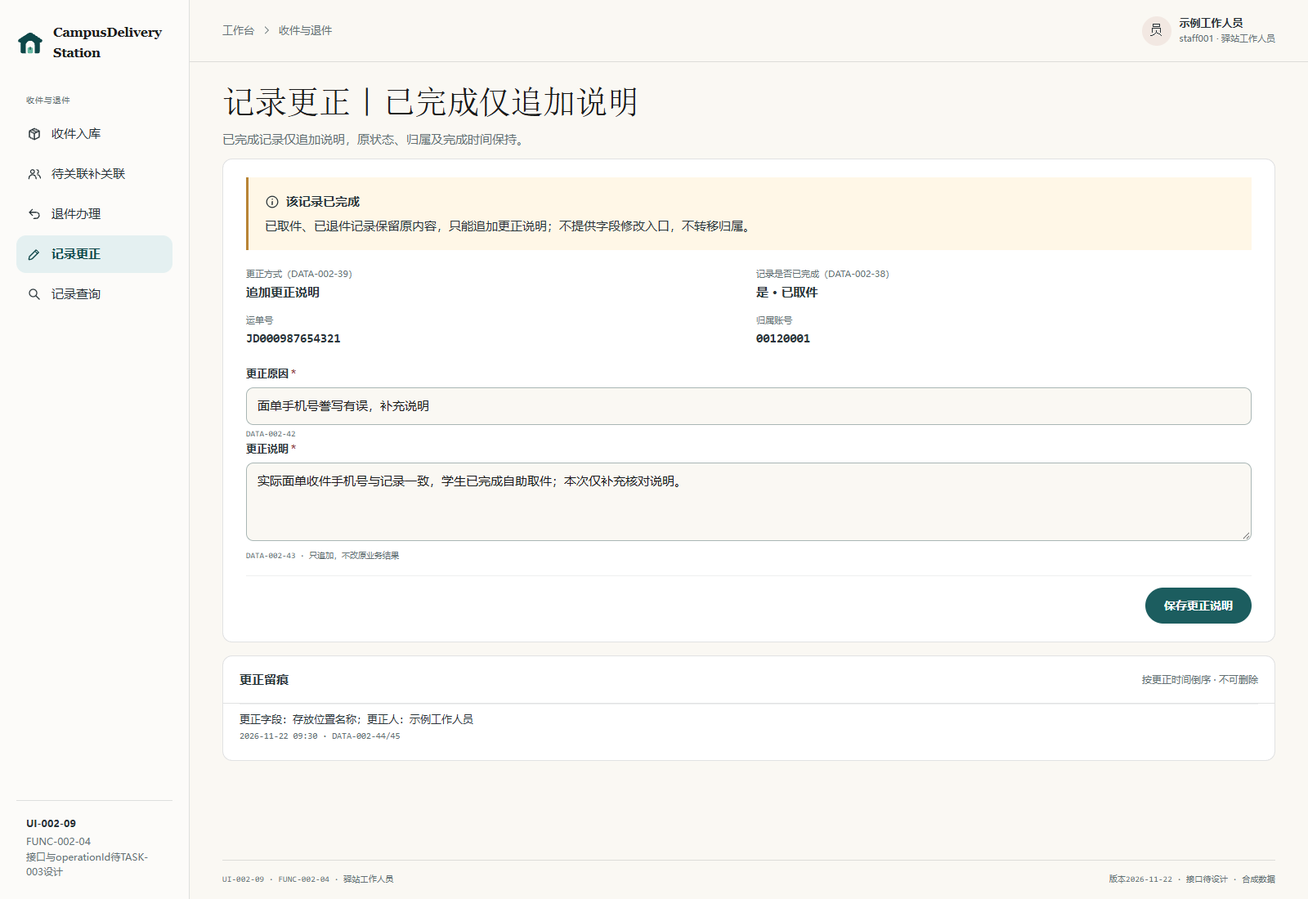
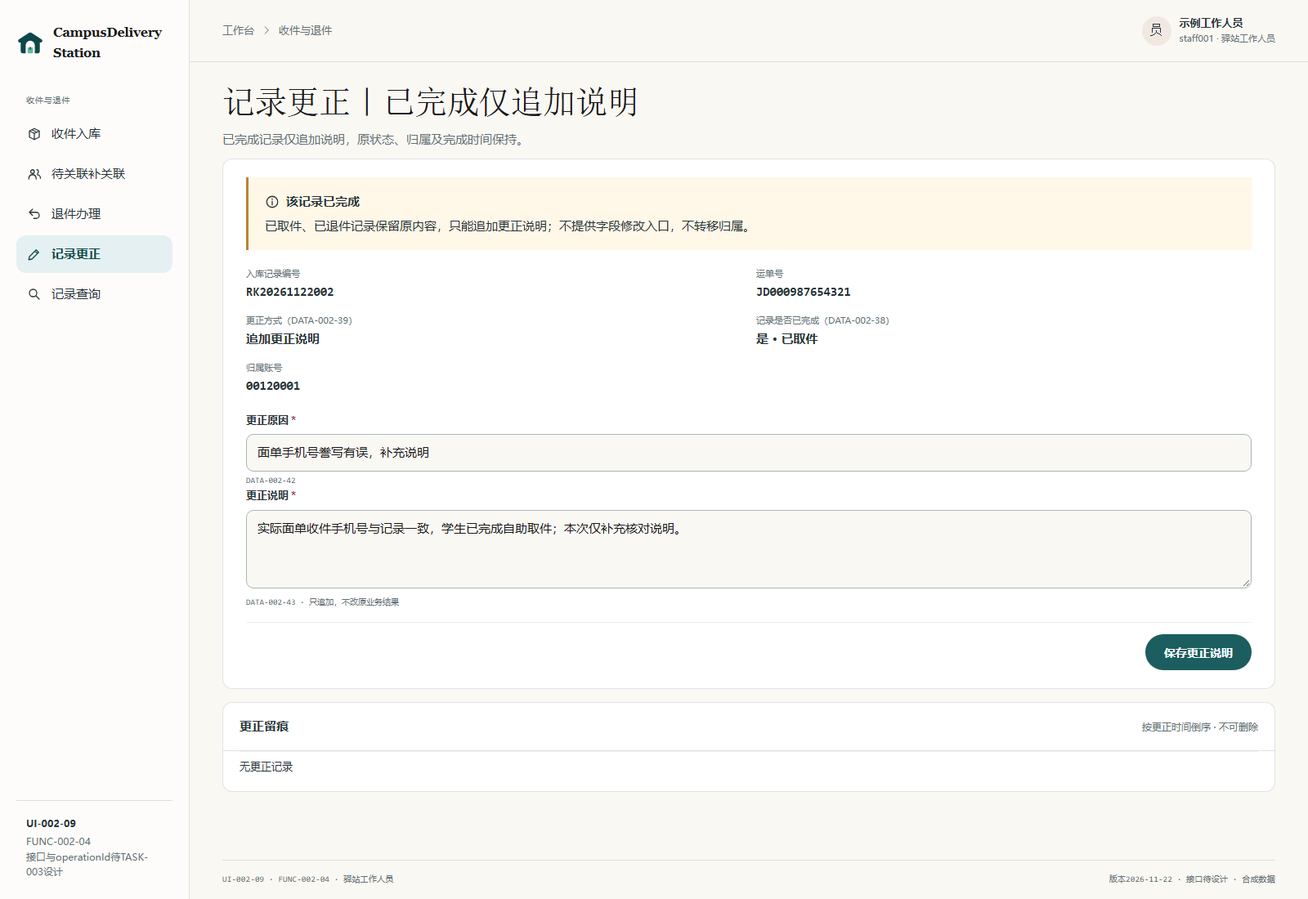
doc(prototype):修复REQ-002查询列表与详情错绑

diff --git a/docs/requirements/prototypes/任奕阳_REQ-002/prototype.js b/docs/requirements/prototypes/任奕阳_REQ-002/prototype.js
@@ -26,6 +26,22 @@ const companies = ["顺丰速运", "京东快递", "韵达快递", "中通快递
 const locations = ["A-1", "A-2", "A-3", "B-1", "B-2", "B-3", "C-1", "C-2", "C-3"];
 const student = { account: "00120001", name: "示例学生", phone: "13800000001" };
 const otherStudent = { account: "00120002", name: "示例学生乙", phone: "13900000009" };
+const records = [
+  {
+    id: "RK20261122001", company: "顺丰速运", tracking: "SF000123456789", receiver: student.name,
+    phone: student.phone, location: "A-3", status: "待取件", account: null, arrivedAt: "2026-11-22 09:05",
+    correction: { field: "存放位置名称", operator: "示例工作人员", at: "2026-11-22 09:30" }
+  },
+  {
+    id: "RK20261121006", company: "京东快递", tracking: "JD000444555666", receiver: student.name,
+    phone: student.phone, location: "B-1", status: "退件中", account: student.account, arrivedAt: "2026-11-21 16:02",
+    returnInfo: { id: "TJ20261122002", source: "学生拒收", reason: "学生拒收", destination: "退回原快递公司", startedAt: "2026-11-22 09:40" }
+  },
+  {
+    id: "RK20261122002", company: "京东快递", tracking: "JD000987654321", receiver: student.name,
+    phone: student.phone, location: "A-1", status: "已取件", account: student.account, arrivedAt: "2026-11-21 16:40"
+  }
+];
 let demoState = "normal";
 let toastTimer;
 
@@ -41,8 +57,12 @@ function brand() {
 }
 
 function currentRoute() {
-  const route = window.location.hash.replace(/^#/, "") || "intake";
+  const route = window.location.hash.slice(1).split("/")[0];
   return Object.hasOwn(pages, route) ? route : "intake";
+}
+
+function isRecordClosed(record) {
+  return record.status === "已取件" || record.status === "已退件";
 }
 
 function metaFooter(page) {
@@ -72,7 +92,7 @@ function shell(route, content) {
       ${navButton("linking", route.startsWith("linking"), "待关联补关联", "users")}
       ${navButton("returns", route.startsWith("return"), "退件办理", "return")}
       ${navButton("correction", route.startsWith("correction"), "记录更正", "edit")}
-      ${navButton("records", route === "records", "记录查询", "search")}
+      ${navButton("records", route === "records" || route === "record-detail", "记录查询", "search")}
     </div>`;
   const displayName = isAdmin ? "示例管理员" : "示例工作人员";
   const account = isAdmin ? "admin001" : "staff001";
@@ -243,14 +263,26 @@ function returnList() {
   </table></div>${pagination(1)}`;
 }
 
-function inReturnList() {
+function inReturnList(record) {
+  const returnInfo = record?.returnInfo ?? {
+    id: "TJ20261122001", source: "人工异常", destination: "退回原快递公司", startedAt: "2026-11-22 09:50"
+  };
+  const recordAttribute = record ? ` data-record-id="${record.id}"` : "";
   return `<div class="table-scroll"><table class="data-table">
     <thead><tr><th>退件记录编号</th><th>来源</th><th>运单号</th><th>退回去向</th><th>开始退件时间</th><th>状态</th><th>操作</th></tr></thead>
-    <tbody><tr><td class="mono">TJ20261122001</td><td>人工异常</td><td class="mono">ZT000111222333</td><td>退回原快递公司</td><td class="mono">2026-11-22 09:50</td><td><span class="status-badge warning">退件中</span></td><td><div class="row-actions"><button class="button-text" type="button" data-action="finish-return">完成登记</button></div></td></tr></tbody>
+    <tbody><tr><td class="mono">${returnInfo.id}</td><td>${returnInfo.source}</td><td class="mono">${record?.tracking ?? "ZT000111222333"}</td>
+      <td>${returnInfo.destination}</td><td class="mono">${returnInfo.startedAt}</td><td><span class="status-badge warning">退件中</span></td>
+      <td><div class="row-actions"><button class="button-text" type="button" data-action="finish-return"${recordAttribute}>完成登记</button></div></td></tr></tbody>
   </table></div>`;
 }
 
-function returnsPage() {
+function returnsPage(record, requestedRecordId) {
+  if (requestedRecordId) {
+    const canContinue = record?.status === "退件中" && record.returnInfo;
+    const back = `<button class="button button-secondary" type="button" data-route="${record ? `record-detail/${record.id}` : "records"}">${record ? "返回记录详情" : "返回记录查询"}</button>`;
+    return pageHeading(pages.returns, canContinue ? `继续办理入库记录${record.id}的退件。` : "该记录当前没有可继续办理的退件。", back) +
+      (canContinue ? `<section class="list-card"><div class="list-toolbar"><strong>退件中</strong></div>${inReturnList(record)}</section>` : "");
+  }
   return pageHeading(pages.returns, "来源由入口确定：学生拒收须拒收待退件且当前申请有效；人工异常仅适用于待取件包裹，可无拒收申请。") +
     `<div class="tabs" role="tablist" aria-label="退件发起入口"><button class="tab" role="tab" aria-selected="true" type="button">学生拒收</button><button class="tab" role="tab" aria-selected="false" type="button" data-route="return-manual">人工发起</button></div>
     <section class="list-card"><div class="list-toolbar"><strong>待退件｜学生拒收</strong><span class="list-count">拒收申请由REQ-003维护，本页只读</span></div>${demoState === "normal" ? returnList() : listStateBlock("没有符合条件的待退件包裹。")}</section>
@@ -293,55 +325,91 @@ function returnManualPage() {
 }
 
 /* FUNC-002-04 更正 */
-function correctionPage(closed) {
+function recordCorrectionHistory(record) {
+  const correction = record.correction;
+  return correction ? `<li>更正字段：${correction.field}；更正人：${correction.operator}<small class="mono">${correction.at} · DATA-002-44/45</small></li>` : "<li>无更正记录</li>";
+}
+
+function correctionPage(closed, selectedRecord, requestedRecordId) {
   const page = pages[closed ? "correction-closed" : "correction"];
-  const form = closed ? `<form class="form-card" id="correction-form" novalidate>
+  if (requestedRecordId && !selectedRecord) return pageHeading(page, "未找到该记录。", `<button class="button button-secondary" type="button" data-route="records">返回记录查询</button>`);
+  const record = selectedRecord ?? records[closed ? 2 : 0];
+  const formAttributes = selectedRecord ? ` data-record-id="${record.id}"` : "";
+  const back = selectedRecord ? `<button class="button button-secondary" type="button" data-route="record-detail/${record.id}">返回记录详情</button>` : "";
+  const form = closed ? `<form class="form-card" id="correction-form"${formAttributes} novalidate>
       <div class="info-card warning"><div class="info-card__title">${icon("info")}该记录已完成</div><p>已取件、已退件记录保留原内容，只能追加更正说明；不提供字段修改入口，不转移归属。</p></div>
-      <dl class="detail-grid" style="margin-top:20px"><div><dt>更正方式（DATA-002-39）</dt><dd>追加更正说明</dd></div><div><dt>记录是否已完成（DATA-002-38）</dt><dd>是 · 已取件</dd></div><div><dt>运单号</dt><dd class="mono">JD000987654321</dd></div><div><dt>归属账号</dt><dd class="mono">00120001</dd></div></dl>
-      ${field("更正原因", "DATA-002-42", `<input name="reason" value="面单手机号誊写有误，补充说明" autocomplete="off">`)}
-      <div class="field field-full"><label for="correction-note">更正说明<span class="required" aria-hidden="true">*</span></label><textarea id="correction-note" name="note">实际面单收件手机号与记录一致，学生已完成自助取件；本次仅补充核对说明。</textarea><span class="data-ref">DATA-002-43 · 只追加，不改原业务结果</span></div>
+      <dl class="detail-grid" style="margin-top:20px"><div><dt>入库记录编号</dt><dd class="mono">${record.id}</dd></div><div><dt>运单号</dt><dd class="mono">${record.tracking}</dd></div><div><dt>更正方式（DATA-002-39）</dt><dd>追加更正说明</dd></div><div><dt>记录是否已完成（DATA-002-38）</dt><dd>是 · ${record.status}</dd></div><div><dt>归属账号</dt><dd class="mono">${record.account}</dd></div></dl>
+      ${field("更正原因", "DATA-002-42", `<input name="reason" value="${selectedRecord ? "" : "面单手机号誊写有误，补充说明"}" autocomplete="off">`)}
+      <div class="field field-full"><label for="correction-note">更正说明<span class="required" aria-hidden="true">*</span></label><textarea id="correction-note" name="note">${selectedRecord ? "" : "实际面单收件手机号与记录一致，学生已完成自助取件；本次仅补充核对说明。"}</textarea><span class="data-ref">DATA-002-43 · 只追加，不改原业务结果</span></div>
       <div class="form-footer"><button class="button button-primary" type="submit">保存更正说明</button></div>
-    </form>` : `<form class="form-card" id="correction-form" novalidate>
+    </form>` : `<form class="form-card" id="correction-form"${formAttributes} novalidate>
       <div class="form-grid">
-        ${field("更正对象类型", "DATA-002-37", `<select name="objectType"><option>入库记录</option><option>退件记录</option></select>`)}
-        ${field("更正对象编号", "DATA-002-07 · 定位待更正记录", `<input name="objectId" value="RK20261122001" autocomplete="off">`)}
+        ${field("更正对象类型", "DATA-002-37", `<select name="objectType" ${selectedRecord ? "disabled" : ""}><option>入库记录</option><option>退件记录</option></select>`)}
+        ${field("更正对象编号", "DATA-002-07 · 定位待更正记录", `<input name="objectId" value="${record.id}" autocomplete="off" ${selectedRecord ? "readonly" : ""}>`)}
         ${field("更正字段", "DATA-002-40 · 不允许直接修改包裹状态", `<select name="fieldName" id="correction-field"><option value="phone">收件手机号</option><option value="tracking">运单号</option><option value="location">存放位置名称</option></select>`)}
-        ${field("更正后内容", "按更正字段引用DATA-003-03等原定义", `<input name="newValue" id="correction-value" value="13900000009" autocomplete="off">`)}
-        ${field("更正原因", "DATA-002-42", `<input name="reason" value="入库时收件手机号录错" autocomplete="off">`, true)}
+        ${field("更正后内容", "按更正字段引用DATA-003-03等原定义", `<input name="newValue" id="correction-value" value="${selectedRecord ? "" : otherStudent.phone}" autocomplete="off">`)}
+        ${field("更正原因", "DATA-002-42", `<input name="reason" value="${selectedRecord ? "" : "入库时收件手机号录错"}" autocomplete="off">`, true)}
       </div>
       <div class="snapshot-compare">
-        <section class="snapshot-box"><h4>更正前内容快照（DATA-002-41）</h4><dl><dt>归属账号</dt><dd class="mono">待关联（允许缺失）</dd><dt>运单号</dt><dd class="mono">SF000123456789</dd><dt>收件手机号</dt><dd class="mono">13800000001</dd><dt>存放位置</dt><dd>A-3</dd></dl></section>
-        <section class="snapshot-box new"><h4>按新号码重新匹配</h4><dl><dt>匹配结果</dt><dd class="mono">00120002 · 示例学生乙</dd><dt>归属变化</dt><dd>待关联 → 00120002</dd><dt>学生可见性</dt><dd>入库后对示例学生乙可见</dd></dl></section>
+        <section class="snapshot-box"><h4>更正前内容快照（DATA-002-41）</h4><dl><dt>归属账号</dt><dd class="mono">${record.account ?? "待关联（允许缺失）"}</dd><dt>运单号</dt><dd class="mono">${record.tracking}</dd><dt>收件手机号</dt><dd class="mono">${record.phone}</dd><dt>存放位置</dt><dd>${record.location}</dd></dl></section>
+        ${selectedRecord ? "" : `<section class="snapshot-box new"><h4>按新号码重新匹配</h4><dl><dt>匹配结果</dt><dd class="mono">${otherStudent.account} · ${otherStudent.name}</dd><dt>归属变化</dt><dd>待关联 → ${otherStudent.account}</dd><dt>学生可见性</dt><dd>入库后对${otherStudent.name}可见</dd></dl></section>`}
       </div>
       <p class="inline-note">快照字段为P002-09建议最小范围，具体结构待数据库设计确认；更正运单号时须重新查重，命中其他未办结记录则阻止保存。</p>
       <div class="form-footer"><button class="button button-primary" type="submit">保存更正</button></div>
     </form>`;
-  return `<div class="correction-page">` + pageHeading(page, closed ? "已完成记录仅追加说明，原状态、归属及完成时间保持。" : "先定位记录并核对是否已完成，再选择更正字段；保存时留痕操作人与时间。") + form +
-    `<div style="height:16px"></div><section class="list-card"><div class="list-toolbar"><strong>更正留痕</strong><span class="list-count">按更正时间倒序 · 不可删除</span></div><ul class="history-list" style="padding:0 20px 12px"><li>更正字段：存放位置名称；更正人：示例工作人员<small class="mono">2026-11-22 09:30 · DATA-002-44/45</small></li></ul></section></div>`;
+  return `<div class="correction-page">` + pageHeading(page, closed ? "已完成记录仅追加说明，原状态、归属及完成时间保持。" : "先定位记录并核对是否已完成，再选择更正字段；保存时留痕操作人与时间。", back) + form +
+    `<div style="height:16px"></div><section class="list-card"><div class="list-toolbar"><strong>更正留痕</strong><span class="list-count">按更正时间倒序 · 不可删除</span></div><ul class="history-list" style="padding:0 20px 12px">${recordCorrectionHistory(record)}</ul></section></div>`;
 }
 
 /* FUNC-002-05 查询 */
 function recordRows() {
-  return `<tr><td class="mono">RK20261122001</td><td>顺丰速运</td><td class="mono">SF000123456789</td><td>示例学生</td><td class="mono">13800000001</td><td>A-3</td><td><span class="status-badge">待取件</span></td><td>待关联</td><td class="mono">2026-11-22 09:05</td><td><div class="row-actions"><button class="button-text" type="button" data-action="record-detail">详情</button></div></td></tr>
-  <tr><td class="mono">RK20261121006</td><td>京东快递</td><td class="mono">JD000444555666</td><td>示例学生</td><td class="mono">13800000001</td><td>B-1</td><td><span class="status-badge warning">退件中</span></td><td>已关联</td><td class="mono">2026-11-21 16:02</td><td><div class="row-actions"><button class="button-text" type="button" data-action="record-detail">详情</button></div></td></tr>
-  <tr><td class="mono">RK20261122002</td><td>京东快递</td><td class="mono">JD000987654321</td><td>示例学生</td><td class="mono">13800000001</td><td>A-1</td><td><span class="status-badge neutral">已取件</span></td><td>已关联</td><td class="mono">2026-11-21 16:40</td><td><div class="row-actions"><button class="button-text" type="button" data-action="record-detail">详情</button></div></td></tr>`;
+  return records.map(record => {
+    const statusStyle = isRecordClosed(record) ? " neutral" : record.status === "退件中" ? " warning" : "";
+    return `<tr><td class="mono">${record.id}</td><td>${record.company}</td><td class="mono">${record.tracking}</td><td>${record.receiver}</td>
+      <td class="mono">${record.phone}</td><td>${record.location}</td><td><span class="status-badge${statusStyle}">${record.status}</span></td>
+      <td>${record.account ? "已关联" : "待关联"}</td><td class="mono">${record.arrivedAt}</td>
+      <td><div class="row-actions"><button class="button-text" type="button" data-action="record-detail" data-record-id="${record.id}">详情</button></div></td></tr>`;
+  }).join("");
 }
 
-function recordsPage(admin, showDetail = admin) {
-  const page = pages[admin ? "records-admin" : showDetail ? "record-detail" : "records"];
+function recordDetail(record, admin) {
+  const closed = isRecordClosed(record);
+  const returnInfo = record.returnInfo;
+  const canContinue = record.status === "退件中" && returnInfo;
+  const actions = admin ? "" : `<div class="drawer-footer">
+      <button class="button ${canContinue ? "button-secondary" : "button-primary"}" type="button" data-route="${closed ? "correction-closed" : "correction"}/${record.id}">${closed ? "追加说明" : "记录更正"}</button>
+      ${canContinue ? `<button class="button button-primary" type="button" data-route="returns/${record.id}">继续退件办理</button>` : ""}
+    </div>`;
+  return `<div class="overlay"></div><aside class="drawer record-detail-drawer" role="dialog" aria-modal="true" aria-labelledby="record-title">
+    <div class="drawer-header"><div><h2 id="record-title">记录详情</h2><span class="function-tag">${record.id} · ${admin ? "只读" : record.status}</span></div><button class="icon-button" type="button" data-route="${admin ? "records-admin" : "records"}" aria-label="关闭">${icon("close")}</button></div>
+    <div class="drawer-body">
+      <dl class="detail-grid">
+        <div><dt>快递公司</dt><dd>${record.company}</dd></div><div><dt>运单号</dt><dd class="mono">${record.tracking}</dd></div>
+        <div><dt>归属账号</dt><dd class="mono">${record.account ?? "待关联"}</dd></div><div><dt>包裹状态</dt><dd>${record.status}</dd></div>
+        <div><dt>存放位置</dt><dd>${record.location}</dd></div><div><dt>到站时间</dt><dd class="mono">${record.arrivedAt}</dd></div>
+      </dl>
+      <section class="detail-section"><h3>退件办理情况</h3>
+        ${returnInfo ? `<dl class="detail-grid">
+          <div><dt>退件记录编号</dt><dd class="mono">${returnInfo.id}</dd></div><div><dt>退件来源</dt><dd>${returnInfo.source}</dd></div>
+          <div><dt>退件原因</dt><dd>${returnInfo.reason}</dd></div><div><dt>退回去向</dt><dd>${returnInfo.destination}</dd></div>
+          <div><dt>开始退件时间</dt><dd class="mono">${returnInfo.startedAt}</dd></div><div><dt>退件完成时间</dt><dd>${returnInfo.finishedAt ?? "未完成"}</dd></div>
+        </dl>` : "<p>暂无退件记录。</p>"}
+      </section>
+      <section class="detail-section"><h3>更正留痕</h3><ul class="history-list">${recordCorrectionHistory(record)}</ul></section>
+      ${actions}
+    </div>
+  </aside>`;
+}
+
+function recordsPage(route, record, unavailable) {
+  const admin = route === "records-admin";
+  const page = pages[route];
   const table = demoState === "normal" ? `<div class="table-scroll"><table class="data-table records-table">
       <thead><tr><th>入库记录编号</th><th>公司</th><th>运单号</th><th>收件人</th><th>收件手机号</th><th>位置</th><th>包裹状态</th><th>关联状态</th><th>到站时间</th><th>操作</th></tr></thead>
-      <tbody>${recordRows()}</tbody></table></div>${pagination(3)}` : listStateBlock("没有符合条件的记录，请调整查询条件。");
-  const detail = showDetail ? `<div class="overlay"></div><aside class="drawer" role="dialog" aria-modal="true" aria-labelledby="record-title">
-    <div class="drawer-header"><div><h2 id="record-title">记录详情</h2><span class="function-tag">RK20261121006 · ${admin ? "只读" : "退件中"}</span></div><button class="icon-button" type="button" data-route="${admin ? "records-admin" : "records"}" aria-label="关闭">${icon("close")}</button></div>
-    <div class="drawer-body">
-      <dl class="detail-grid"><div><dt>快递公司</dt><dd>京东快递</dd></div><div><dt>运单号</dt><dd class="mono">JD000444555666</dd></div><div><dt>归属账号</dt><dd class="mono">00120001</dd></div><div><dt>包裹状态</dt><dd>退件中</dd></div></dl>
-      <section class="detail-section"><h3>退件办理情况</h3><dl class="detail-grid"><div><dt>退件记录编号</dt><dd class="mono">TJ20261122002</dd></div><div><dt>退件来源</dt><dd>学生拒收</dd></div><div><dt>退件原因</dt><dd>学生拒收</dd></div><div><dt>退回去向</dt><dd>退回原快递公司</dd></div><div><dt>开始退件时间</dt><dd class="mono">2026-11-22 09:40</dd></div><div><dt>退件完成时间</dt><dd>未完成，允许缺失</dd></div></dl></section>
-      <section class="detail-section"><h3>更正留痕</h3><ul class="history-list"><li>无更正记录<small>当前值与留痕分开查看</small></li></ul></section>
-      ${admin ? `<div class="info-card"><p>当前账号仅可查看，不能办理业务；后端同样拒绝办理类请求（403 FORBIDDEN待接口登记）。</p></div>` : `<div class="drawer-footer"><button class="button button-secondary" type="button" data-route="correction">记录更正</button><button class="button button-primary" type="button" data-route="returns">继续退件办理</button></div>`}
-    </div>
-  </aside>` : "";
+      <tbody>${recordRows()}</tbody></table></div>${pagination(records.length)}` : listStateBlock("没有符合条件的记录，请调整查询条件。");
+  const detail = record && demoState === "normal" ? recordDetail(record, admin) : "";
   return pageHeading(page, admin ? "管理员只读查看全部获准记录，不显示任何办理入口。" : "查询为只读操作；办理入口仍按记录当前状态进入对应功能。", admin ? `<span class="role-badge">管理员 · 只读</span>` : "") +
+    (unavailable ? `<p class="form-alert" role="alert">未找到该记录，请从清单重新选择。</p>` : "") +
     `<form class="filter-card" id="record-filter" novalidate><div class="filter-grid">
       <div class="field"><label for="record-status">包裹状态</label><select id="record-status"><option value="">不限</option><option>待取件</option><option>已取件</option><option>拒收待退件</option><option>退件中</option><option>已退件</option></select><span class="data-ref">DATA-002-46</span></div>
       <div class="field"><label for="record-link">账号关联状态</label><select id="record-link"><option value="">不限</option><option>已关联</option><option>待关联</option></select><span class="data-ref">DATA-002-49</span></div>
@@ -353,7 +421,10 @@ function recordsPage(admin, showDetail = admin) {
 }
 
 function render() {
-  const route = currentRoute();
+  let route = currentRoute();
+  const [, recordId] = window.location.hash.split("/");
+  const record = records.find(item => item.id === recordId);
+  if (route.startsWith("correction") && record) route = isRecordClosed(record) ? "correction-closed" : "correction";
   const listRoute = ["linking", "linking-mismatch", "returns", "records", "record-detail", "records-admin"].includes(route);
   if (!listRoute) demoState = "normal";
   let html;
@@ -362,14 +433,12 @@ function render() {
   else if (route === "intake-success") html = intakeSuccessPage();
   else if (route === "linking") html = linkingPage(false);
   else if (route === "linking-mismatch") html = linkingPage(true);
-  else if (route === "returns") html = returnsPage();
+  else if (route === "returns") html = returnsPage(record, recordId);
   else if (route === "return-start") html = returnStartPage();
   else if (route === "return-manual") html = returnManualPage();
-  else if (route === "correction") html = correctionPage(false);
-  else if (route === "correction-closed") html = correctionPage(true);
-  else if (route === "records") html = recordsPage(false, false);
-  else if (route === "record-detail") html = recordsPage(false, true);
-  else html = recordsPage(true, true);
+  else if (route.startsWith("correction")) html = correctionPage(route === "correction-closed", record, recordId);
+  else if (route === "records") html = recordsPage(route);
+  else html = recordsPage(route, route === "record-detail" && !recordId ? records[1] : record, Boolean(recordId && !record));
   document.getElementById("app").innerHTML = shell(route, html);
   document.title = `${pages[route].ui} ${pages[route].title}｜REQ-002原型`;
   const picker = document.getElementById("page-picker");
@@ -452,12 +521,29 @@ function handleCorrection(form) {
   if (!reason.value.trim()) { setFieldError(reason, "请填写更正原因。"); reason.focus(); return; }
   const fieldInput = form.elements.fieldName;
   const value = form.elements.newValue;
+  const record = records.find(item => item.id === form.dataset.recordId);
   if (fieldInput && value) {
     if (!value.value.trim()) { setFieldError(value, "请填写更正后内容。"); value.focus(); return; }
     if (fieldInput.value === "phone" && !/^1\d{10}$/.test(value.value)) { setFieldError(value, "收件手机号应为11位中国大陆手机号。"); value.focus(); return; }
-    if (fieldInput.value === "tracking" && value.value.trim() === "SF000123456789") { setFieldError(value, "更正后运单号与该快递公司已有记录重复（入库记录编号：RK20261122001），请先核对。"); value.focus(); return; }
+    if (fieldInput.value === "tracking") {
+      const tracking = value.value.trim();
+      const duplicate = record
+        ? records.find(item => item.id !== record.id && item.company === record.company && item.tracking === tracking && !isRecordClosed(item))
+        : tracking === records[0].tracking ? records[0] : null;
+      if (duplicate) { setFieldError(value, `更正后运单号与该快递公司已有记录重复（入库记录编号：${duplicate.id}），请先核对。`); value.focus(); return; }
+    }
   }
-  submitWithFeedback(form, () => showToast(fieldInput ? "入库记录RK20261122001已更正，更正字段：收件手机号，更正人：示例工作人员。" : "已完成记录已追加更正说明，原业务结果未改变。"));
+  const note = form.elements.note;
+  if (record && note) {
+    const missingNote = !note.value.trim();
+    setFieldError(note, missingNote ? "请填写更正说明。" : "");
+    if (missingNote) { note.focus(); return; }
+  }
+  const fieldLabel = fieldInput?.selectedOptions[0].textContent;
+  const result = fieldInput
+    ? `入库记录${record?.id ?? records[0].id}已更正，更正字段：${fieldLabel}，更正人：示例工作人员。`
+    : `入库记录${record?.id ?? records[2].id}已追加更正说明，原业务结果未改变。`;
+  submitWithFeedback(form, () => showToast(result));
 }
 
 function handleRecordFilter(form) {
@@ -485,8 +571,15 @@ document.addEventListener("click", event => {
   if (action === "confirm-duplicate") { window.location.hash = "intake"; showToast("已确认为重复包裹，未新增入库记录。"); }
   if (action === "print-label") showToast("标签仅作页面预览与浏览器打印，不设置物理打印设备或专用纸张版式。");
   if (action === "open-link") window.location.hash = "linking";
-  if (action === "finish-return") showToast("退件已完成登记，完成时间：2026-11-22 10:30，办理人：示例工作人员；重复提交不改写完成事实。");
-  if (action === "record-detail") window.location.hash = currentRoute() === "records" ? "record-detail" : "records-admin";
+  if (action === "finish-return") {
+    const selected = records.find(record => record.id === actionButton.dataset.recordId);
+    const prefix = selected ? `退件记录${selected.returnInfo.id}（运单号${selected.tracking}）` : "退件";
+    showToast(`${prefix}已完成登记，完成时间：2026-11-22 10:30，办理人：示例工作人员；重复提交不改写完成事实。`);
+  }
+  if (action === "record-detail") {
+    const detailRoute = currentRoute() === "records-admin" ? "records-admin" : "record-detail";
+    window.location.hash = `${detailRoute}/${actionButton.dataset.recordId}`;
+  }
   if (action === "search") showToast("已按当前条件刷新待关联清单。");
   if (action === "retry") { demoState = "normal"; render(); }
 });

diff --git a/docs/requirements/prototypes/任奕阳_REQ-002/prototype.css b/docs/requirements/prototypes/任奕阳_REQ-002/prototype.css
@@ -204,6 +204,7 @@ h3 { margin-bottom: 8px; color: var(--ink); font-size: 16px; }
 .export .overlay { position: absolute; }
 .drawer { position: fixed; z-index: 70; top: 0; right: 0; bottom: 0; width: min(480px, 100vw); display: flex; flex-direction: column; background: var(--surface); border-left: 1px solid var(--line); }
 .export .drawer { position: absolute; }
+.record-detail-drawer { z-index: 90; }
 .drawer-header { display: flex; align-items: flex-start; justify-content: space-between; gap: 16px; padding: 28px 28px 22px; border-bottom: 1px solid var(--line); }
 .drawer-header h2 { margin: 0 0 4px; }
 .drawer-body { padding: 26px 28px; overflow-y: auto; flex: 1; }

diff --git a/docs/requirements/prototypes/任奕阳_REQ-002/REQ-002_界面原型说明.md b/docs/requirements/prototypes/任奕阳_REQ-002/REQ-002_界面原型说明.md
@@ -16,7 +16,9 @@
 | FUNC-002-04记录更正 | UI-002-08未完成记录更正；UI-002-09已完成仅追加说明 | 工作人员导航“记录更正”及查重、补关联、详情中的更正入口；对象定位、字段新值、快照核对、追加说明与留痕 |
 | FUNC-002-05收件退件记录查询 | UI-002-10工作人员查询；UI-002-11管理员只读查询与详情 | 工作人员“记录查询”和管理员“记录查询（只读）”；条件区、分页列表及详情抽屉 |
 
-工作人员在UI-002-10点击“详情”可进入同一UI编号的详情状态，查看入库、关联、退件和更正留痕，并按记录当前状态进入继续退件或更正；不会转为管理员视角。UI-002-06的“人工发起”另有同编号的导览状态，演示待关联、无拒收申请的待取件包裹从检索结果到开始退件的流程，不另出图。
+UI-002-10和UI-002-11按入库记录编号打开选中行的详情。列表和详情使用同一份合成记录，展示对应的运单号、归属、包裹状态、退件信息和更正留痕。工作人员查看待取件记录时可进入该记录的更正页，查看退件中记录时可继续该笔退件或进入更正页，查看已完成记录时可为该记录追加说明。补关联从待关联清单进入。管理员点击任意记录可打开对应的只读详情。两种视角都可关闭抽屉返回各自的查询清单，UI-002-11导出图展示退件中记录的只读详情。
+
+UI-002-06的“人工发起”另有同编号的导览状态，演示待关联、无拒收申请的待取件包裹从检索结果到开始退件的流程，不另出图。
 
 ## 字段与显示口径
 
@@ -59,5 +61,7 @@
 - 46项浏览器检查通过：入库格式校验、查重及确认不新增、有效入库与标签；补关联手机号门禁和可见性提示；两类退件来源、原因说明、开始与完成；更正查重阻止、已完成仅追加说明；查询时间与关键词校验、工作人员详情入口和管理员只读；清单公共状态。
 - 入库、补关联、退件、更正和查询代表页在1600×1100、1024×768、390×844三档视口下均无页面级横向溢出；减少动态效果媒体查询生效。
 - 浏览器脚本错误0项，外部网络请求0项。
+
+同日在Edge复测记录绑定修订。工作人员和管理员分别打开三条示例记录，核对运单号、归属、状态、退件信息、更正留痕、角色操作和关闭返回。核对同一记录的更正、继续退件及已完成记录追加说明入口，并检查不存在的记录编号和两种视角的三档视口布局。重新导出并核对UI-002-09和UI-002-11两张1600×1100原型图。
 
 待验证项包括实际Vue页面与路由、后端鉴权和业务约束、真实接口联调、200%浏览器缩放、完整键盘流程和屏幕阅读器检查。原型图不是运行截图，本次不据此宣称业务功能已实现或验收通过。图片汇入课程DOCX及跨模块公共交互评审另行进行。

diff --git a/docs/management/team.md b/docs/management/team.md
@@ -51,6 +51,7 @@
 
 | 日期 | 关联任务 | 关键进展 |
 | --- | --- | --- |
+| 2026-11-22 | TASK-002、TASK-011 | 按杨振煜确认修订REQ-002查询列表与详情绑定。工作人员和管理员均按入库记录编号打开对应详情，工作人员的更正、继续退件和追加说明入口沿用所选记录，管理员只读。Edge复测两种角色各三条记录、办理入口和三档视口，重导UI-002-09及UI-002-11。结果见[原型说明](../requirements/prototypes/任奕阳_REQ-002/REQ-002_界面原型说明.md#打开方式与已执行检查)。TASK-002继续进行，后续逐项核对审核发现。 |
 | 2026-11-22 | TASK-002、TASK-011 | 核对REQ-001和REQ-002的23张导出图、功能与数据表，并用Edge复测9种代表状态的三档视口及关键交互。两套原型的品牌、背景和工作台样式一致。复现REQ-001账号核验与角色分流缺口，以及REQ-002列表与详情错绑、查询和退件反馈与记录状态脱节、只读抽屉无法关闭等问题。TASK-002保持进行中。杨振煜与任奕阳先修订各自原型并统一导航和抽屉规则，相关负责人同步ADR-008及补齐REQ-003～005原型后联合复评，再汇入CR-04课程DOCX。 |
 | 2026-11-22 | TASK-002 | 完成[REQ-002界面原型](../requirements/prototypes/任奕阳_REQ-002/REQ-002_界面原型说明.md)首版：HTML/CSS/JS可编辑源文件及UI-002-01～11共11张1600×1100 PNG，覆盖FUNC-002-01～05主图和查重、标签、补关联失败、退件表单、已完成更正、管理员只读附图；人工异常退件和工作人员详情提供同编号导览状态。沿用REQ-001品牌、米白底色与公共交互，不设置物理打印设备，接口仍待设计。已同步功能分析追踪表。Edge实际导出无横向或导出视口溢出，46项交互、权限、公共状态及三档视口检查通过，脚本错误和外部请求均为0；逐图检查可读性。材料待评审，TASK-002保持“进行中”；课程DOCX汇入、公共交互评审、真实接口与业务实现验证未完成。原型提交`baa5e93`已通过凭据管理器中的`lvivaqwq`账号非强制推送至`origin/docs/task-002-req002-prototype`，远端SHA与本地一致；本条进度更新随任务分支同步。 |
 | 2026-11-19 | TASK-002 | REQ-001学生首次登录的强制改密改为学生首页内的弹窗，已同步[原型说明和UI-001-05状态图](../requirements/prototypes/杨振煜_REQ-001/REQ-001_界面原型说明.md#状态与操作)。Edge验证自动弹出、错误提示、遮罩与Escape无法跳过、改密成功后停留原页以及再次登录，三档视口布局检查通过。原型待评审，Word汇总暂缓。 |
